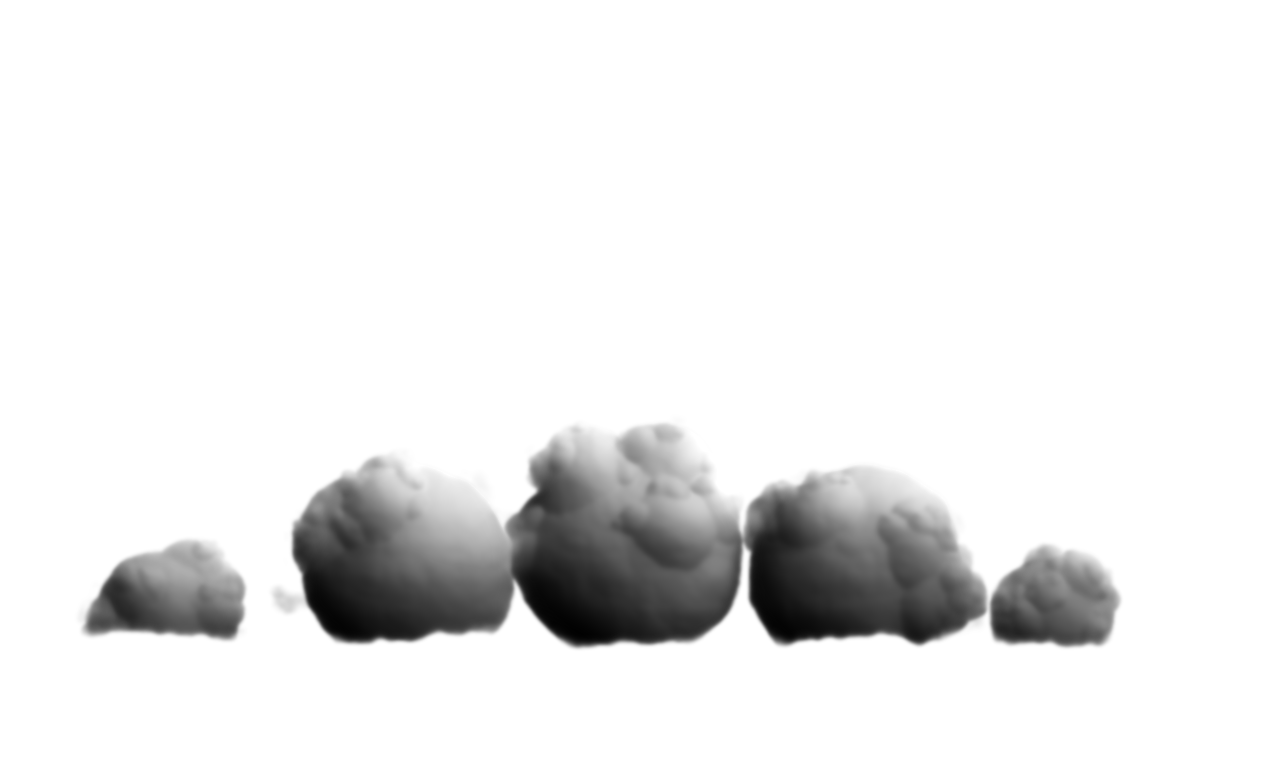
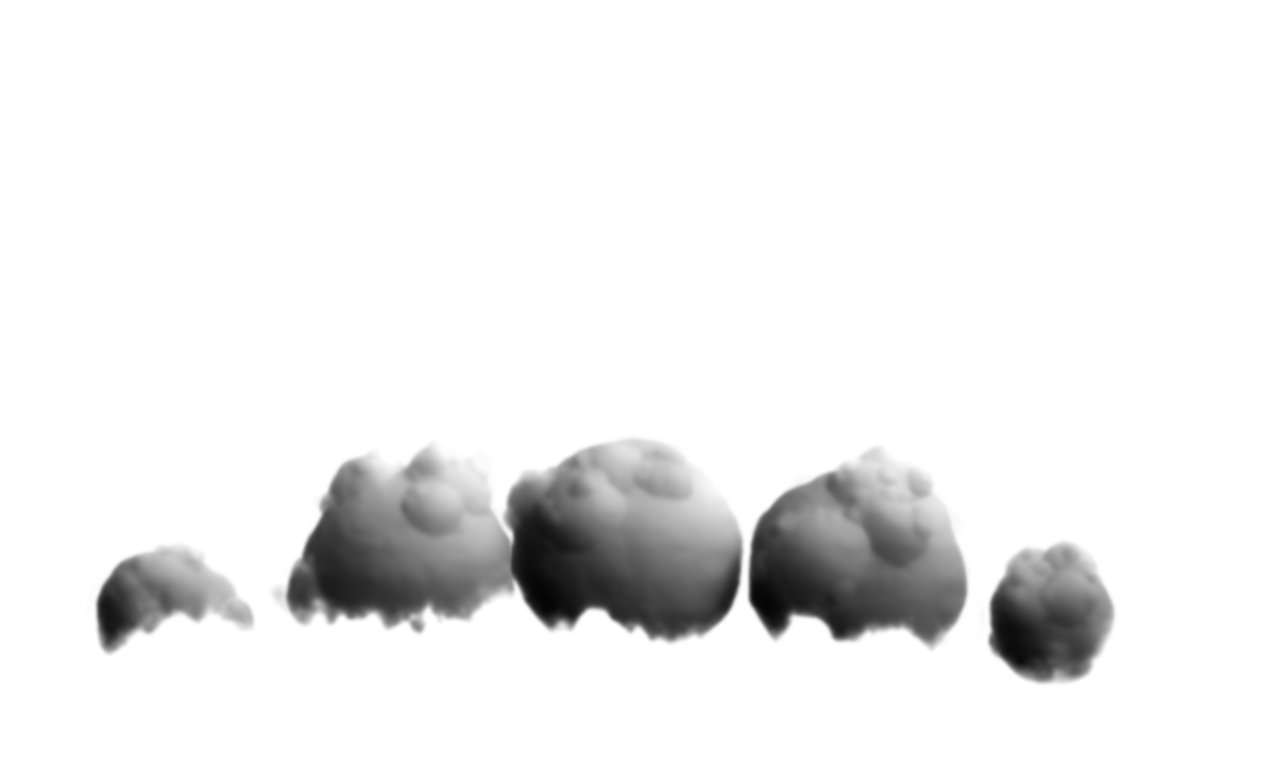
Particle smoke clouds; irregular, denser far cloud field
Clouds are now particle emitters of soft smoke puffs that slowly billow,
grow and fade, lit per puff with self-shadowing. The far bank is a field
of clouds scattered in depth: small and hazy on top, bigger and denser
below, irregular top and bottom edges. Sprite clouds also get lumpy,
soft undersides instead of flat bases.

Claude-Session: https://claude.ai/code/session_0162s1WtHzA1f8fCwiWVDiXA

Changed region(s): [[0.0625, 0.5447, 0.875, 0.9079]]

diff --git a/silhouette_kit/smokecloud.py b/silhouette_kit/smokecloud.py
@@ -1,0 +1,170 @@
+"""Particle (smoke-style) clouds.
+
+A cloud is an emitter: a cumulus-shaped volume (a few big lobes plus billows, irregular top AND bottom) that
+continuously emits soft smoke puffs. Every puff is born at a point in the volume, slowly billows outward and
+upward while it grows, then fades and is re-emitted, so the cloud keeps its overall shape but churns like smoke.
+
+Each puff is a small noisy ball with its own light and shadow (bright toward the sun, darker underneath); on top of
+that every puff gets a light value from its place in the cloud: self-shadowing by the puffs between it and the sun
+(precomputed per cloud), sky light from above, dark underside. Puffs are drawn far-to-near.
+
+    cloud(ctx, x, base_y, width, tones, seed, T, a=1.0, tower=0.5, churn=1.0)
+tones = (shadow, body, lit, highlight); base_y is the cloud's mean underside, x its centre.
+"""
+import math, random
+import numpy as np
+import cairo
+
+SUN = (0.62, -0.62, 0.48)
+TEX = 128
+NTEX = 8
+_TEX = []
+_CLOUDS = {}
+
+
+def _hx(c):
+    if isinstance(c, str):
+        c = c.lstrip("#")
+        return tuple(int(c[i:i + 2], 16) / 255 for i in (0, 2, 4))
+    return tuple(c)[:3]
+
+
+def _noise(n, cell, rng):
+    g = rng.random((n // cell + 3, n // cell + 3)).astype(np.float32)
+    t = np.arange(n, dtype=np.float32) / cell
+    i = t.astype(int); f = t - i; f = f * f * (3 - 2 * f)
+    a = g[i][:, i]; b = g[i][:, i + 1]; c = g[i + 1][:, i]; d = g[i + 1][:, i + 1]
+    return (a * (1 - f) + b * f) * (1 - f)[:, None] + (c * (1 - f) + d * f) * f[:, None]
+
+
+def _surf(arr):
+    """Single-channel float array -> A8 cairo surface (used as a mask)."""
+    h, w = arr.shape
+    stride = cairo.ImageSurface.format_stride_for_width(cairo.FORMAT_A8, w)
+    buf = np.zeros((h, stride), np.uint8)
+    buf[:, :w] = (np.clip(arr, 0, 1) * 255).astype(np.uint8)
+    return cairo.ImageSurface.create_for_data(bytearray(buf.tobytes()), cairo.FORMAT_A8, w, h, stride)
+
+
+def _textures():
+    """Puff textures: (alpha mask, lit mask). Soft noisy balls; the lit mask is the sunward, upper part."""
+    if _TEX:
+        return _TEX
+    rng = np.random.default_rng(7)
+    yy, xx = (np.mgrid[0:TEX, 0:TEX].astype(np.float32) + 0.5) / TEX * 2 - 1
+    for k in range(NTEX):
+        n = 0.55 * _noise(TEX, 16, rng) + 0.3 * _noise(TEX, 8, rng) + 0.15 * _noise(TEX, 4, rng)
+        warp = (n - 0.5) * 0.45
+        r = np.sqrt(xx * xx + yy * yy) + warp
+        alpha = np.clip(1 - r, 0, 1) ** 0.9
+        alpha = np.clip(alpha * 1.6, 0, 1) * (0.75 + 0.35 * n)
+        nz = np.sqrt(np.clip(1 - np.clip(r, 0, 1) ** 2, 0, 1))
+        sl = math.sqrt(sum(v * v for v in SUN))
+        lam = (xx * SUN[0] + yy * SUN[1] + nz * SUN[2]) / sl + (n - 0.5) * 0.5
+        lit = np.clip(lam * 0.55 + 0.45, 0, 1) ** 1.6
+        _TEX.append((_surf(alpha), _surf(alpha * lit)))
+    return _TEX
+
+
+def _lobes(rnd, width, tower):
+    """Cumulus volume as lobes (cx, cy, cz, r) in units of width, y up is negative, base around 0."""
+    L = []
+    n = rnd.randint(4, 6)
+    for i in range(n):
+        t = i / (n - 1)
+        dome = math.sin(math.pi * t) ** 0.8
+        r = rnd.uniform(0.09, 0.15) * (0.6 + 0.7 * dome)
+        L.append((-0.42 + 0.84 * t + rnd.uniform(-0.04, 0.04), -r * 0.55 - dome * 0.06 + rnd.uniform(-0.03, 0.05),
+                  rnd.uniform(-0.05, 0.05), r))
+    if rnd.random() < tower:
+        cx, y, r = rnd.uniform(-0.15, 0.15), -0.22, 0.14
+        while y > -0.62:
+            L.append((cx + rnd.uniform(-0.05, 0.05), y, rnd.uniform(-0.03, 0.04), r))
+            y -= r * rnd.uniform(0.5, 0.7)
+            r = max(0.075, r * rnd.uniform(0.8, 0.92))
+    for cx, cy, cz, r in list(L):                      # billows on the lobes, also hanging below
+        for _ in range(rnd.randint(3, 5)):
+            a = rnd.uniform(-math.pi, math.pi)
+            rr = max(0.05, r * rnd.uniform(0.4, 0.65))
+            d = r * rnd.uniform(0.55, 0.85)
+            L.append((cx + math.cos(a) * d, cy + math.sin(a) * d * 0.8, cz + rnd.uniform(-0.3, 0.6) * r, rr))
+    return L
+
+
+def _build(seed, tower, count):
+    rnd = random.Random(seed)
+    L = _lobes(rnd, 1.0, tower)
+    w = np.array([l[3] ** 2 for l in L]); w /= w.sum()
+    P = []
+    for _ in range(count):
+        cx, cy, cz, r = L[rnd.choices(range(len(L)), w)[0]]
+        u = rnd.random() ** 0.6                        # a little biased toward the lobe surface
+        th, ph = rnd.uniform(0, 2 * math.pi), math.acos(rnd.uniform(-1, 1))
+        px = cx + r * u * math.sin(ph) * math.cos(th)
+        py = cy + r * u * math.sin(ph) * math.sin(th) * 0.85
+        pz = cz + r * u * math.cos(ph)
+        pr = max(0.04, r * rnd.uniform(0.45, 0.75) * (1.2 - 0.4 * u))
+        # outward direction from the lobe centre: puffs billow out of the cloud as they age
+        dx, dy = px - cx, py - cy
+        dl = math.hypot(dx, dy) + 1e-6
+        P.append([px, py, pz, pr, dx / dl, dy / dl - 0.6, rnd.random(), rnd.uniform(0.7, 1.3), rnd.randrange(NTEX)])
+    P = np.array(P, np.float32)
+    # self-shadow: how much of the cloud lies between each puff and the sun (cylinder toward the sun)
+    s = np.array(SUN, np.float32); s /= np.linalg.norm(s)
+    pos, rad = P[:, :3], P[:, 3]
+    d = pos[None, :, :] - pos[:, None, :]              # j - i
+    along = d @ s
+    perp = np.linalg.norm(d - along[..., None] * s[None, None, :], axis=2)
+    occ = ((along > 0) * np.clip(1 - perp / (rad[None, :] * 1.3 + 1e-6), 0, 1) * (rad[None, :] / 0.05)).sum(1)
+    shadow = np.exp(-occ * 0.09)
+    height = np.clip(-pos[:, 1] / 0.35, -0.3, 1)
+    light = 0.18 + 0.2 * height + 0.62 * shadow
+    light = light - 0.18 * np.clip(pos[:, 1] / 0.05, 0, 1)          # underside darker
+    order = np.argsort(pos[:, 2])                                   # far to near
+    return P[order], np.clip(light[order], 0, 1)
+
+
+def _tone(tones, t):
+    sh, bo, li, hi = [np.array(_hx(c)) for c in tones]
+    if t < 0.42:
+        return sh + (bo - sh) * (t / 0.42)
+    if t < 0.78:
+        return bo + (li - bo) * ((t - 0.42) / 0.36)
+    return li + (hi - li) * min(1.0, (t - 0.78) / 0.22)
+
+
+def cloud(ctx, x, base_y, width, tones, seed, T=0.0, a=1.0, tower=0.5, churn=1.0, detail=1.0):
+    """Draw one particle cloud centred on x with its underside around base_y, `width` px wide.
+    churn scales how fast the puffs billow (0 = frozen)."""
+    tex = _textures()
+    count = int(max(40, min(260, width * 0.26 * detail)))
+    key = (seed, round(tower, 1), count)
+    if key not in _CLOUDS:
+        if len(_CLOUDS) > 400:
+            _CLOUDS.clear()
+        _CLOUDS[key] = _build(seed, tower, count)
+    P, light = _CLOUDS[key]
+    # quantised palette lookups (cheap)
+    lut = [_tone(tones, q / 31) for q in range(32)]
+    for (px, py, pz, pr, ox, oy, ph, sp, ti), lv in zip(P, light):
+        age = (T * 0.045 * churn * sp + ph) % 1.0
+        fade = min(1.0, age / 0.2, (1 - age) / 0.25)
+        grow = 0.8 + 0.45 * age
+        bx = x + (px + ox * pr * 0.35 * age) * width
+        by = base_y + (py + oy * pr * 0.25 * age) * width
+        rad = pr * grow * width
+        al = a * fade
+        if al <= 0.01 or rad < 1:
+            continue
+        k = rad * 2 / TEX
+        A_, Lm = tex[int(ti)]
+        c0 = lut[int(min(31, lv * 0.62 * 31))]
+        c1 = lut[int(min(31, (0.42 + 0.62 * lv) * 31))]
+        ctx.save()
+        ctx.translate(bx - rad, by - rad)
+        ctx.scale(k, k)
+        ctx.set_source_rgba(c0[0], c0[1], c0[2], al)
+        ctx.mask_surface(A_, 0, 0)
+        ctx.set_source_rgba(c1[0], c1[1], c1[2], al * (0.25 + 0.55 * lv))
+        ctx.mask_surface(Lm, 0, 0)
+        ctx.restore()

diff --git a/silhouette_kit/landscape.py b/silhouette_kit/landscape.py
@@ -180,10 +180,10 @@ def tones_mix(a, b, t):
 
 
 def cumulus_rich(ctx, x, y, w, tones, seed, a=1.0, light=(0.55, -0.85), tower=0.6, t=0.0):
-    """Realistic cumulus from the pre-rendered sprite library (silhouette_kit/clouds.py): flat base on y, w wide,
-    coloured with tones = (shadow, body, lit, highlight). The sun is on the right; light[0] < 0 mirrors it."""
-    from . import clouds
-    clouds.draw(ctx, x, y, w * 1.1, tones, clouds.pick(seed, tower), a, flip=light[0] < 0)
+    """Particle (smoke-puff) cumulus, see smokecloud.py: underside around y, w wide,
+    coloured with tones = (shadow, body, lit, highlight)."""
+    from . import smokecloud
+    smokecloud.cloud(ctx, x, y, w * 1.1, tones, seed, t, a=a, tower=tower)
 
 
 def cumulus_cel(ctx, x, y, w, tones, seed, a=1.0, light=(0.55, -0.85), tower=0.6, t=0.0):
@@ -258,37 +258,37 @@ def cirrus(ctx, y0, y1, tone, seed, t=0.0, a=0.35, n=14):
 
 
 def cloud_deck(ctx, T, tones, seed=0, horizon=820, scroll=0.0, speed=1.0, haze=None, density=1.0, scale=1.0, a=1.0):
-    """One continuous far cloud bank along the horizon: two rows of overlapping cumulus sprites (a hazier back row
-    with towers, a front row of broad cumulus) that merge into a single mass, sitting on a soft haze floor.
+    """One continuous far cloud field around the horizon. Clouds are scattered in depth: the farthest (top) rows
+    are small and hazy, nearer rows lower down are bigger, denser and clearer, so the mass is thickest below and
+    both its top and bottom edges are irregular. Drawn far-to-near so nearer clouds overlap the ones behind.
+    Every cloud is a particle emitter of smoke puffs (smokecloud.py), so the whole bank slowly churns.
     `scroll` is the horizontal camera offset in px (already scaled for distance); drift is slow."""
-    from . import clouds
+    from . import smokecloud
     rnd = random.Random(seed)
     span = W + 2000
     hz = haze or tones[2]
-    rows = ((horizon - 40, (420, 900), 0.4, 0.5, 0.92, 0.6, 1.0),        # yb, widths, spacing, haze, alpha, tower, par
-            (horizon + 25, (620, 980), 0.42, 0.25, 1.0, 0.45, 1.25))
-    for r, (yb, (w0, w1), sp, hm, al, tw, par) in enumerate(rows):
-        tn = tuple(mix(c, hz, hm) for c in tones) if haze else tones
-        sp = sp + 0.25 * (1 - min(1.0, density))
-        x, k = rnd.uniform(0, 300), 0
+    rows = 5
+    for r in range(rows):
+        q = r / (rows - 1)                                   # 0 = far/top .. 1 = near/bottom
+        yb = horizon - 110 + q * 330
+        w0, w1 = (340 + 360 * q), (620 + 520 * q)
+        tn = tuple(mix(c, hz, 0.55 * (1 - q) + 0.08) for c in tones) if haze else tones
+        par = 0.8 + 0.6 * q
+        sp = (0.5 - 0.12 * q) + 0.25 * (1 - min(1.0, density))
+        x = rnd.uniform(0, 400)
         items = []
         while x < span:
             wd = rnd.uniform(w0, w1) * scale
-            items.append((x, wd, rnd.uniform(-14, 14) * scale, min(1.0, max(0.0, tw + rnd.uniform(-0.5, 0.5))), k))
-            x += wd * sp * rnd.uniform(0.8, 1.15)
-            k += 1
+            if rnd.random() > 0.18 * (1 - q):               # a few gaps in the far rows only
+                items.append((x, wd, rnd.uniform(-70, 70) * scale * (0.5 + q), rnd.uniform(0.0, 0.95 - 0.25 * q), rnd.random() < 0.5,
+                              len(items)))
+            x += wd * sp * rnd.uniform(0.7, 1.3)
         off = scroll * par + T * speed * 4 * par
-        for x0, wd, dy, twk, k in items:
+        for x0, wd, dy, twk, fl, k in sorted(items, key=lambda it: it[2]):
             xx = (x0 - off) % span - 1000
             if -wd < xx < W + wd:
-                clouds.draw(ctx, xx, yb + dy, wd, tn, clouds.pick(seed * 97 + r * 31 + k, twk), al * a, flip=False)
-    # haze floor: the bases dissolve into the distant murk instead of ending on a hard line
-    fl = mix(tones[1], hz, 0.6)
-    g = cairo.LinearGradient(0, horizon - 30, 0, horizon + 420)
-    g.add_color_stop_rgba(0, *fl, 0.0)
-    g.add_color_stop_rgba(0.2, *fl, 0.85 * a)
-    g.add_color_stop_rgba(1, *fl, 0.55 * a)
-    ctx.rectangle(-200, horizon - 30, W + 400, 2000); ctx.set_source(g); ctx.fill()
+                smokecloud.cloud(ctx, xx, yb + dy, wd, tn, seed * 97 + r * 31 + k, T, a=(0.85 + 0.15 * q) * a,
+                                 tower=twk, churn=max(0.4, min(1.5, speed)), detail=0.8 + 0.4 * q)
 
 
 def sky_clouds(ctx, T, tones, seed=0, scroll=0.0, speed=1.0, density=1.0, haze=None, horizon=820, scale=1.0):

diff --git a/silhouette_kit/clouds.py b/silhouette_kit/clouds.py
@@ -2,7 +2,7 @@
 
 Offline: `generate()` builds a small library of cloud sprites. Each sprite is a 2-D density field made of
 hierarchical puffs (big domes -> smaller billows -> tiny bumps = cauliflower cumulus), eroded at the edges with
-fractal noise and cut off by a slightly ragged flat base. Lighting is computed by marching toward the sun through
+fractal noise, with a lumpy, softly dissolving underside. Lighting is computed by marching toward the sun through
 the density (Beer-Lambert transmittance) plus a powder term, an ambient term that darkens toward the base, and
 forward-scatter at thin edges (silver lining). Sprites store luminance + alpha only (8-bit LA PNG).
 
@@ -78,9 +78,10 @@ def _puffs(kind, rng):
         new = []
         for cx, cy, cz, r in level:
             for _ in range(rng.randint(k // 2 + 1, k)):
-                a = rng.uniform(-math.pi * 1.12, 0.3)              # mostly on the upper half
-                phi = rng.uniform(0.45 if g == 0 else 0.75, 1.5)                        # angle away from the view axis
-                rr = r * math.exp(rng.uniform(math.log(rs[0]), math.log(rs[1])))
+                down = rng.random() < 0.28
+                a = rng.uniform(0.35, math.pi - 0.35) if down else rng.uniform(-math.pi * 1.12, 0.3)
+                phi = rng.uniform(0.45 if g == 0 else 0.75, 1.5)    # angle away from the view axis
+                rr = r * math.exp(rng.uniform(math.log(rs[0]), math.log(rs[1]))) * (0.8 if down else 1.0)
                 d = r - rr * (1 - dd)                               # child pokes out of the parent surface
                 new.append((cx + math.cos(a) * math.sin(phi) * d, cy + math.sin(a) * math.sin(phi) * d,
                             cz + math.cos(phi) * d, rr))
@@ -90,7 +91,7 @@ def _puffs(kind, rng):
 
 
 def _render_fields(kind, seed):
-    """Height (toward viewer), thickness and analytic normals of the sphere union, cut by a flat ragged base."""
+    """Height (toward viewer), thickness and analytic normals of the sphere union, with an irregular, soft underside."""
     from scipy import ndimage
     rng = random.Random(seed)
     nr = np.random.default_rng(seed)
@@ -133,8 +134,10 @@ def _render_fields(kind, seed):
     # thickness -> density; ragged fbm erosion eats the thinnest edges
     ero = fbm((SH, SW), nr, 40, 4)
     T = np.clip(T * inside - 22 * (ero - 0.35), 0, None)
-    rag = (fbm((1, SW), nr, 40, 3)[0] - 0.5) * 22                   # flat, ragged base
-    cut = np.clip((BASE + rag[None, :] - yy) / 14.0, 0, 1)
+    # irregular underside: a lumpy, uneven lower edge that dissolves softly (no ruler-flat base)
+    rag = (fbm((1, SW), nr, 170, 2)[0] - 0.5) * 150 + (fbm((1, SW), nr, 45, 3)[0] - 0.5) * 50 + 30
+    wisp = fbm((SH, SW), nr, 30, 3)
+    cut = np.clip((BASE + rag[None, :] - yy) / 45.0 + (wisp - 0.5) * 0.8, 0, 1)
     T *= cut
     return H, T, (NX, NY, NZ), ero
 
@@ -290,7 +293,7 @@ def _surface(idx, tones):
     bgra[..., 3] = (a[..., 0] * 255).astype(np.uint8)
     surf = cairo.ImageSurface.create_for_data(bytearray(bgra.tobytes()), cairo.FORMAT_ARGB32, SW, SH, SW * 4)
     _COL[key] = surf
-    while len(_COL) > 64:                     # ~4 MB each
+    while len(_COL) > 110:                    # ~4 MB each
         _COL.popitem(last=False)
     return surf
 

diff --git a/silhouette_kit/README.md b/silhouette_kit/README.md
@@ -13,6 +13,7 @@
 | `props.py` | 欧式楼房（可战损）、废墟、瓦砾、路灯、电线杆；埃菲尔铁塔、大本钟、议会大厦、圆顶教堂、防空气球、圣瓦西里、克里姆林宫墙、金字塔、修道院；棕榈、柏树、树、风车、农舍；谢尔曼、四号坦克风格、卡车、蒸汽机车、登陆艇、侧视战斗机/轰炸机、航母舰岛、机库、塔台、风向袋；前景遮挡物（草丛、铁丝网桩、沙袋、木箱、油桶、缆桩、绳圈、岩石、蕨叶、立柱、行李、油桶） | `P.facade()`、`P.eiffel()`、`P.locomotive()`… |
 | `fx.py` | 雪、雨（含溅落）、沙尘、雾带、海面反光、浪、浪花、落叶、火焰、火星、灰烬、滚动烟柱、蒸汽、爆炸（火球 → 黑烟 → 碎片）、曳光弹、探照灯、枪口火光、热浪扭曲 | `fx.snow()`、`fx.rain()`、`fx.explosion()`、`fx.heat_shimmer()` |
 | `clouds.py` | 写实积云贴图库：离线生成 16 张云（8 积云 / 4 塔状积云 / 4 扁平云），分层 3D 球体（大穹顶→翻卷→小鼓包）+ 噪声扰动边缘 + 平整底部；光照含逐鼓包明暗、鼓包互相投影、体积衰减、缝隙遮蔽、暗底和向阳面半透明亮边。只存亮度 + 透明度（`assets/clouds/*.png`），运行时按场景色调（阴影/主体/受光/高光）上色并缓存 | `clouds.draw(ctx, x, 底部y, 宽, tones, clouds.pick(seed, tower))`；`landscape.cumulus_rich()` 已改用它；`python3 -m silhouette_kit.clouds` 重新生成 |
+| `smokecloud.py` | 粒子烟雾云：每朵云是一个发射器，在积云形体（大团 + 翻卷 + 高塔，上下边缘都不规则）里持续发射柔和的烟团粒子，粒子慢慢向外翻涌、长大、淡出再重生，云整体形状不变但像烟一样缓慢翻滚；每个粒子自带受光/背光，并按在云中的位置计算自阴影、天光和暗底 | `smokecloud.cloud(ctx, x, 底部y, 宽, tones, seed, T, tower=, churn=)`；`landscape.cumulus_rich()` / `cloud_deck()` 已改用它 |
 | `sfx.py` | 程序合成音效：雨、风（可加呼啸）、火、海浪、蟋蟀、虫鸣、鸟叫、海鸥、人群、防空警报、钟声、引擎嗡鸣、爆炸、枪声、机枪、舰炮、水柱、飞机掠过、俯冲啸叫、坦克、蒸汽机车、汽笛、蓄力、重击、耳鸣、按地面材质区分的脚步；混音器和混响 | `explosion()`、`footstep(surface)`、`Mix`、`reverb()` |
 
 ## 关键约定
